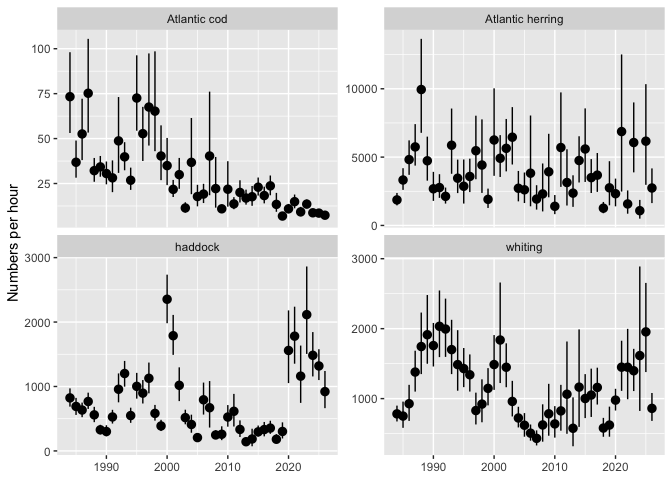
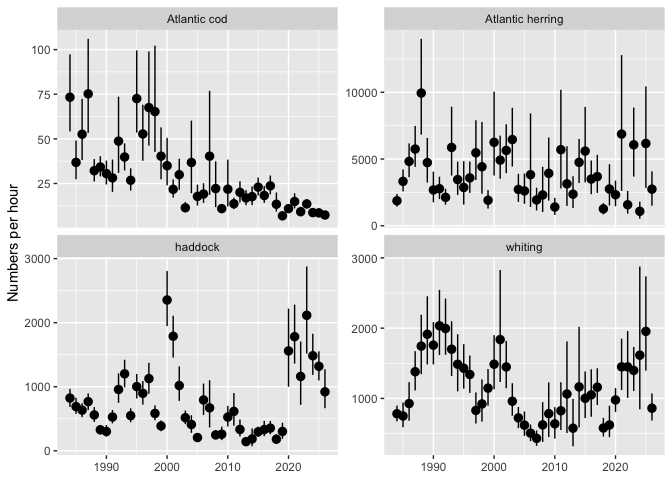
Re-render the README against the rebuilt archive
Picks up HL_length's eighteenth column: Columns 17 -> 18 with n_measured in
the glimpse. The rest of the diff is unavoidable churn -- glimpse samples a
different set of rows now the parquet has been rebuilt, and the system.time()
block reports a different elapsed.

Committed with --no-verify. The pre-commit hook asks for README.Rmd and
README.md to be staged together, to catch a hand-edited README.md; here the
source is genuinely unchanged and only its output moved, which is the case the
hook's own message says to override.

Rendered with LANG/LC_ALL set to en_US.UTF-8. Worth knowing for next time: R
here starts in a US-ASCII locale, cli::is_utf8_output() is FALSE, and glimpse
then truncates with an ASCII fallback instead of "…". A render in the default
shell environment rewrites all 179 ellipsis characters in this file and turns
a 26-line diff into a 361-line one, none of it content. Note also that
devtools::build_readme() fails in this checkout -- pak 401s on the opus
Remote -- so rmarkdown::render() is the route.

README.html, which the github_document render leaves behind, is now gitignored;
.Rbuildignore already excluded it.

diff --git a/README.md b/README.md
@@ -199,42 +199,43 @@ duckdbfs::open_dataset("https://heima.hafro.is/~einarhj/datras/species.parquet")
 #> $ worms_name   <chr> "Polyplacophora", "Ischnochitonidae", "Gastropoda", "Scap…
 duckdbfs::open_dataset("https://heima.hafro.is/~einarhj/datras/HL_length.parquet") |> dplyr::glimpse()
 #> Rows: ??
-#> Columns: 17
+#> Columns: 18
 #> $ .id              <chr> "NS-IBTS:2006:3:GB-SCT:748S:GOV:321:9", "NS-IBTS:2006…
 #> $ Survey           <chr> "NS-IBTS", "NS-IBTS", "NS-IBTS", "NS-IBTS", "NS-IBTS"…
 #> $ Year             <int> 2006, 2006, 2006, 2006, 2006, 2006, 2006, 2006, 2006,…
 #> $ Quarter          <int> 3, 3, 3, 3, 3, 3, 3, 3, 3, 3, 3, 3, 3, 3, 3, 3, 3, 3,…
-#> $ Valid_Aphia      <int> 126437, 150637, 127137, 127139, 126715, 127139, 10581…
-#> $ latin            <chr> "Melanogrammus aeglefinus", "Eutrigla gurnardus", "Hi…
-#> $ species          <chr> "haddock", "grey gurnard", "American plaice", "common…
+#> $ Valid_Aphia      <int> 126437, 126446, 126438, 126438, 127137, 126450, 12641…
+#> $ latin            <chr> "Melanogrammus aeglefinus", "Trisopterus minutus", "M…
+#> $ species          <chr> "haddock", "cepelan", "whiting", "whiting", "American…
 #> $ rank             <chr> "Species", "Species", "Species", "Species", "Species"…
-#> $ length_mm        <int> 410, 240, 160, 220, 190, 200, 520, 270, 350, 150, 280…
-#> $ length_cm        <dbl> 41, 24, 16, 22, 19, 20, 52, 27, 35, 15, 28, 27, 26, 2…
-#> $ accuracy         <dbl> 1.0, 1.0, 1.0, 0.1, 1.0, 0.1, 1.0, 1.0, 1.0, 0.1, 1.0…
+#> $ length_mm        <int> 200, 140, 340, 360, 160, 190, 130, 470, 150, 70, 430,…
+#> $ length_cm        <dbl> 20, 14, 34, 36, 16, 19, 13, 47, 15, 7, 43, 29, 21, 26…
+#> $ accuracy         <dbl> 1.0, 1.0, 1.0, 1.0, 1.0, 1.0, 0.5, 1.0, 1.0, 1.0, 1.0…
 #> $ LengthType       <chr> NA, NA, NA, NA, NA, NA, NA, NA, NA, NA, NA, NA, NA, N…
-#> $ SpeciesSex       <chr> "U", "U", "U", "F", "U", NA, "M", "U", "U", NA, "U", …
+#> $ SpeciesSex       <chr> "U", "U", "U", "U", "U", NA, NA, "U", NA, NA, "U", NA…
 #> $ DevelopmentStage <chr> NA, NA, NA, NA, NA, NA, NA, NA, NA, NA, NA, NA, NA, N…
-#> $ n_haul           <dbl> 1.000, 2.000, 3.000, 1.000, 2.000, 278.949, 1.000, 1.…
-#> $ n_hour           <dbl> 2.000, 4.000, 6.000, 2.000, 4.000, 557.898, 2.000, 2.…
+#> $ n_haul           <dbl> 3.000, 1.000, 2.000, 1.000, 3.000, 2.000, 94.705, 7.0…
+#> $ n_hour           <dbl> 6.00, 2.00, 4.00, 2.00, 6.00, 4.00, 189.41, 14.00, 6.…
+#> $ n_measured       <dbl> NA, NA, NA, NA, NA, NA, NA, NA, NA, NA, NA, NA, NA, N…
 #> $ SpeciesValidity  <chr> "1", "1", "1", "1", "1", "1", "1", "1", "1", "1", "1"…
 duckdbfs::open_dataset("https://heima.hafro.is/~einarhj/datras/HL_summary.parquet") |> dplyr::glimpse()
 #> Rows: ??
 #> Columns: 16
-#> $ .id                <chr> "NS-IBTS:2006:3:DE:06NI:GOV:697:1", "NS-IBTS:2007:3…
+#> $ .id                <chr> "NS-IBTS:2007:1:FR:35HT:GOV:L0086:29", "NS-IBTS:200…
 #> $ Survey             <chr> "NS-IBTS", "NS-IBTS", "NS-IBTS", "NS-IBTS", "NS-IBT…
-#> $ Year               <int> 2006, 2007, 2007, 2007, 2008, 2008, 2008, 2008, 200…
-#> $ Quarter            <int> 3, 3, 3, 3, 1, 1, 1, 3, 3, 3, 1, 1, 3, 3, 3, 3, 1, …
-#> $ Valid_Aphia        <int> 11707, 127143, 126437, 127023, 140270, 126417, 1264…
-#> $ latin              <chr> "Cephalopoda", "Pleuronectes platessa", "Melanogram…
-#> $ species            <chr> "cephalopods", "European plaice", "haddock", "Atlan…
-#> $ rank               <chr> "Class", "Species", "Species", "Species", "Species"…
-#> $ n_totalnumber      <dbl> 44.000000, 10.000000, 154.000000, 31.000000, 10.000…
-#> $ n_totalnumber_hour <dbl> 88.00, 20.00, 308.00, 62.00, 20.00, 58.00, 1057.00,…
-#> $ n_haul             <dbl> 44.000000, 10.000000, 154.000000, 31.000000, 10.000…
-#> $ w_haul             <dbl> 233.0000, 2994.0000, 2859.5000, 8380.0000, NA, NA, …
-#> $ w_hour             <dbl> 466, 5988, 5719, 16760, NA, NA, 11039, NA, 5421, 11…
-#> $ n_measured         <dbl> NA, 10, NA, 31, NA, 29, NA, NA, NA, 213, 1, 29, NA,…
-#> $ p_females          <dbl> NA, NA, NA, NA, NA, NA, NA, NA, NA, 0.6240841, NA, …
+#> $ Year               <int> 2007, 2008, 2008, 2008, 2009, 2009, 2009, 2011, 201…
+#> $ Quarter            <int> 1, 1, 1, 3, 1, 3, 3, 3, 3, 1, 3, 3, 1, 1, 1, 3, 3, …
+#> $ Valid_Aphia        <int> 150637, 127203, 127143, 127143, 127139, 127137, 126…
+#> $ latin              <chr> "Eutrigla gurnardus", "Myoxocephalus scorpius", "Pl…
+#> $ species            <chr> "grey gurnard", "bull rout", "European plaice", "Eu…
+#> $ rank               <chr> "Species", "Species", "Species", "Species", "Specie…
+#> $ n_totalnumber      <dbl> 244.000000, 141.500000, 5.000000, 46.000000, 84.000…
+#> $ n_totalnumber_hour <dbl> 488.00, 283.00, 10.00, 92.00, 168.00, 14.00, 4.00, …
+#> $ n_haul             <dbl> 244.000000, 141.500000, 5.000000, 46.000000, 84.000…
+#> $ w_haul             <dbl> 26099.5000, 11459.5000, 524.0000, 5316.0000, 7510.0…
+#> $ w_hour             <dbl> 52199, 22919, 1048, 10632, 15020, NA, NA, 10664, 42…
+#> $ n_measured         <dbl> NA, NA, NA, NA, 84, NA, NA, 106, NA, NA, NA, NA, NA…
+#> $ p_females          <dbl> NA, NA, NA, NA, NA, NA, NA, NA, NA, NA, NA, NA, NA,…
 #> $ SpeciesValidity    <chr> "1", "1", "1", "1", "1", "1", "1", "1", "1", "1", "…
 ```
 
@@ -271,7 +272,7 @@ system.time({
     mutate(n_hour = coalesce(n_hour, 0))
 })
 #>    user  system elapsed 
-#>   1.691   0.320   8.966
+#>   1.754   0.122   3.643
 ```
 
 ``` r
